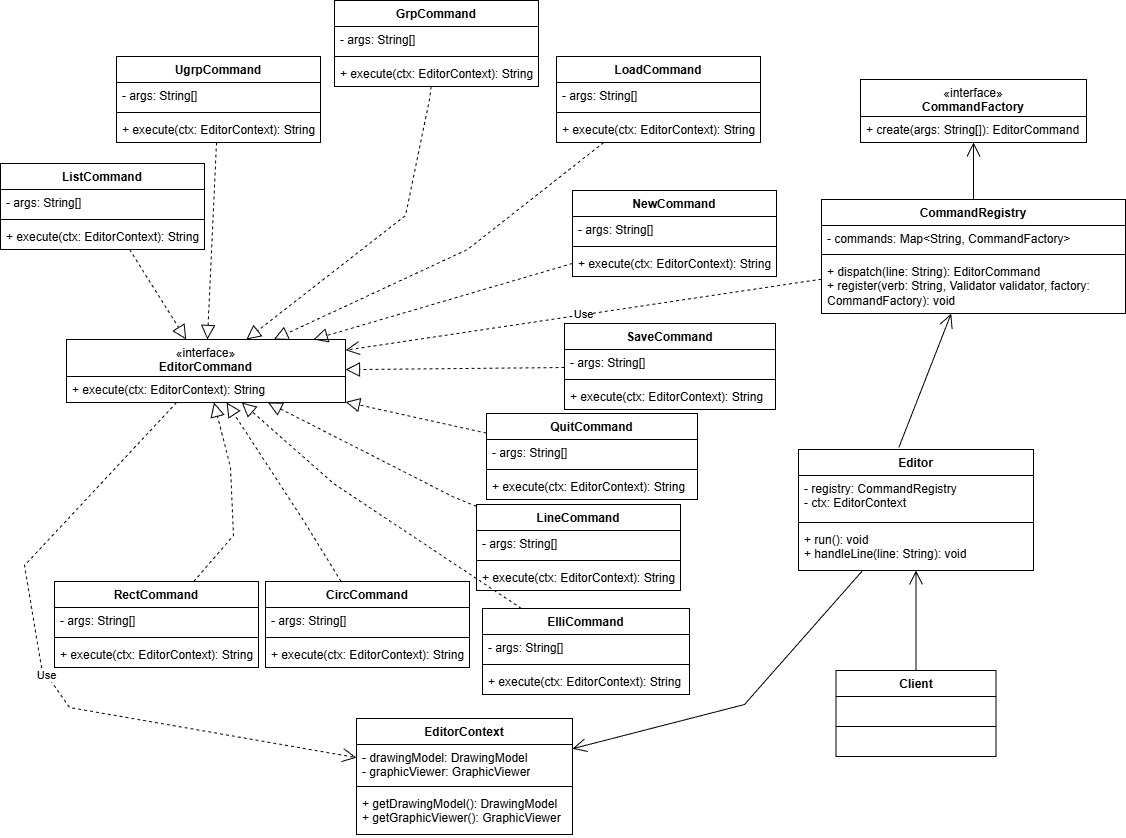
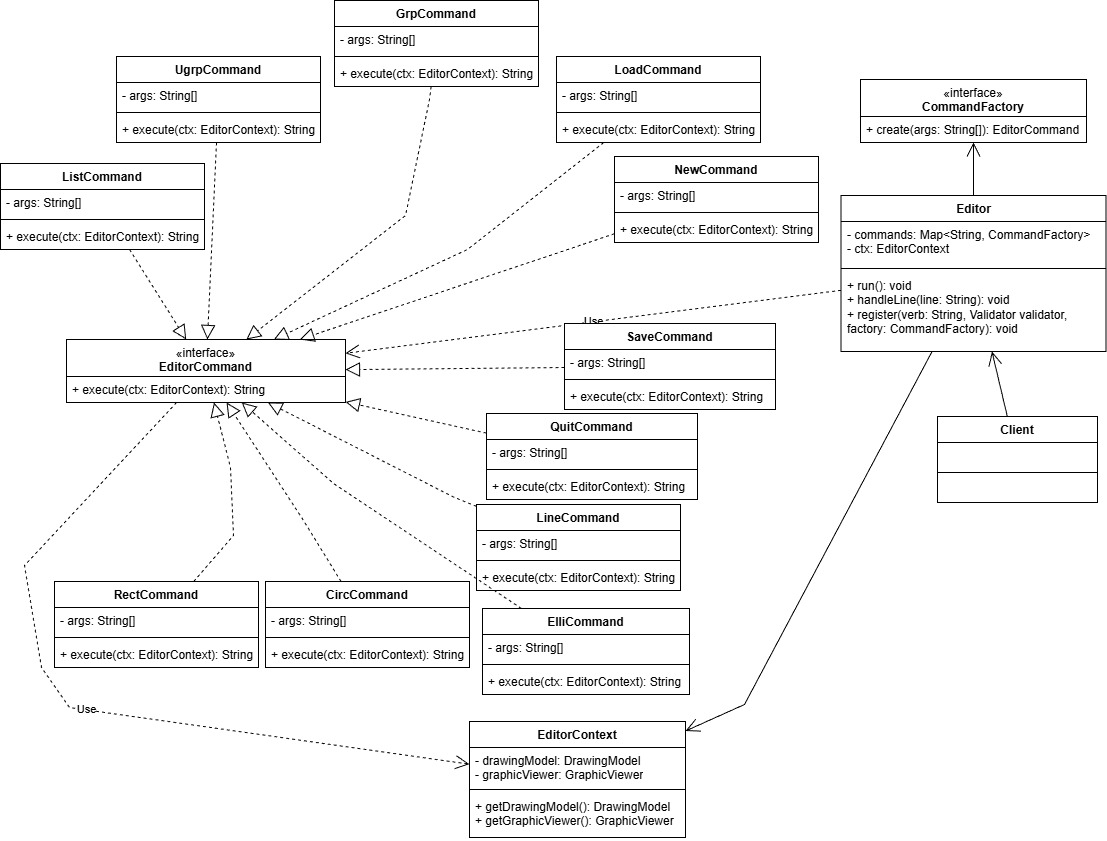
update

diff --git a/src/main/java/com/drawing/controller/converter/V2bmpConverter.java b/src/main/java/com/drawing/controller/converter/V2bmpConverter.java
@@ -52,23 +52,23 @@ public class V2bmpConverter implements DrawingVisitor {
         ImageIO.write(image, "png", new File(pngFile));
     }
 
-    private static int i(double v) {
-        return (int) Math.round(v);
-    }
-
     @Override
     public void visit(Line line) {
         g.setColor(line.getColor());
-        g.drawLine(i(line.getX0()), i(line.getY0()), i(line.getX1()), i(line.getY1()));
+        g.drawLine((int) Math.round(line.getX0()),
+                (int) Math.round(line.getY0()),
+                (int) Math.round(line.getX1()),
+                (int) Math.round(line.getY1())
+        );
     }
 
     @Override
     public void visit(Rectangle rectangle) {
         g.setColor(rectangle.getColor());
-        int x0 = i(Math.min(rectangle.getX0(), rectangle.getX1()));
-        int y0 = i(Math.min(rectangle.getY0(), rectangle.getY1()));
-        int w = i(Math.abs(rectangle.getWidth()));
-        int h = i(Math.abs(rectangle.getHeight()));
+        int x0 = (int) Math.round(Math.min(rectangle.getX0(), rectangle.getX1()));
+        int y0 = (int) Math.round(Math.min(rectangle.getY0(), rectangle.getY1()));
+        int w = (int) Math.round(Math.abs(rectangle.getWidth()));
+        int h = (int) Math.round(Math.abs(rectangle.getHeight()));
         g.drawRect(x0, y0, w, h);
     }
 
@@ -76,19 +76,19 @@ public class V2bmpConverter implements DrawingVisitor {
     public void visit(Circle circle) {
         g.setColor(circle.getColor());
         double r = circle.getRad();
-        int x = i(circle.getCx() - r);
-        int y = i(circle.getCy() - r);
-        int d = i(2 * r);
+        int x = (int) Math.round(circle.getCx() - r);
+        int y = (int) Math.round(circle.getCy() - r);
+        int d = (int) Math.round(2 * r);
         g.drawOval(x, y, d, d);
     }
 
     @Override
     public void visit(Ellipse ellipse) {
         g.setColor(ellipse.getColor());
-        int x = i(ellipse.getX() - ellipse.getRx());
-        int y = i(ellipse.getY() - ellipse.getRy());
-        int w = i(2 * ellipse.getRx());
-        int h = i(2 * ellipse.getRy());
+        int x = (int) Math.round(ellipse.getX() - ellipse.getRx());
+        int y = (int) Math.round(ellipse.getY() - ellipse.getRy());
+        int w = (int) Math.round(2 * ellipse.getRx());
+        int h = (int) Math.round(2 * ellipse.getRy());
         g.drawOval(x, y, w, h);
     }
 

diff --git a/src/main/java/com/drawing/model/builder/NormalDrawingBuilder.java b/src/main/java/com/drawing/model/builder/NormalDrawingBuilder.java
@@ -4,9 +4,7 @@ import com.drawing.model.shape.Drawable;
 import com.drawing.model.shape.*;
 
 import java.awt.Color;
-import java.util.ArrayDeque;
 import java.util.ArrayList;
-import java.util.Deque;
 import java.util.List;
 
 /**
@@ -20,25 +18,16 @@ public class NormalDrawingBuilder implements DrawingBuilder {
     /**
      * Liste des éléments dessinables construits. Les éléments sont ajoutés à la liste ou au groupe en cours.
      */
-    private final List<Drawable> drawables = new ArrayList<>();
-    /**
-     * Pile pour gérer les groupes imbriqués. Chaque fois que beginGroup() est appelé, un nouveau groupe est poussé sur la pile.
-     */
-    private final Deque<Group> groupStack = new ArrayDeque<>();
+    private List<Drawable> drawables = new ArrayList<>();
 
     /** {@inheritDoc} */
     @Override
     public void reset() {
         drawables.clear();
-        groupStack.clear();
     }
 
     private void addDrawable(Drawable d) {
-        if (groupStack.isEmpty()) {
-            drawables.add(d);
-        } else {
-            groupStack.peek().add(d);
-        }
+        drawables.add(d);
     }
 
     /** {@inheritDoc} */
@@ -67,26 +56,13 @@ public class NormalDrawingBuilder implements DrawingBuilder {
 
     /** {@inheritDoc} */
     @Override
-    public void beginGroup(String label) {
-        groupStack.push(new Group(label));
-    }
-
-    /** {@inheritDoc} */
-    @Override
-    public void endGroup() {
-        if (groupStack.isEmpty()) {
-            throw new IllegalStateException("endGroup() appelé sans beginGroup()");
-        }
-        Group finished = groupStack.pop();
-        addDrawable(finished);
+    public void setGroup(List<Drawable> drawables, String label) {
+        addDrawable(new Group(drawables, label));
     }
 
     /** {@inheritDoc} */
     @Override
     public List<Drawable> getResult() {
-        if (!groupStack.isEmpty()) {
-            throw new IllegalStateException("Groupes non fermés: endGroup() manquant");
-        }
         return new ArrayList<>(drawables);
     }
 

diff --git a/src/main/java/com/drawing/controller/xml/XmlLoader.java b/src/main/java/com/drawing/controller/xml/XmlLoader.java
@@ -1,6 +1,7 @@
 package com.drawing.controller.xml;
 
 import com.drawing.model.builder.DrawingBuilder;
+import com.drawing.model.shape.Group;
 import com.drawing.util.ColorDecode;
 
 import org.w3c.dom.Document;
@@ -18,7 +19,15 @@ import java.io.File;
  */
 public class XmlLoader {
 
+    /**
+     * Builder utilisé pour construire le dessin à partir des éléments du fichier XML.
+     */
     private DrawingBuilder drawingBuilder;
+    /**
+     * Groupe en cours de construction. Les éléments suivants seront ajoutés à ce groupe jusqu'à ce qu'un nouveau groupe soit défini.
+     Si null, les éléments sont ajoutés à la liste principale.
+     */
+    private Group currentGroup = null;
 
     /**
      * @param drawingBuilder Builder cible.
@@ -34,6 +43,7 @@ public class XmlLoader {
      * @throws Exception erreur d'accès fichier, parse XML ou attributs invalides
      */
     public void load(String fileName) throws Exception {
+        currentGroup = null;
         Document doc = DocumentBuilderFactory.newInstance()
                 .newDocumentBuilder()
                 .parse(new File(fileName));
@@ -83,9 +93,18 @@ public class XmlLoader {
 
     private void parseGroup(Element groupEl) {
         String label = groupEl.getAttribute("label");
-        drawingBuilder.beginGroup(label);
+        Group newGroup = new Group(label);
+
+        Group previousGroup = currentGroup;
+        currentGroup = newGroup;
         parseChildren(groupEl);
-        drawingBuilder.endGroup();
+        currentGroup = previousGroup;
+
+        if (previousGroup != null) {
+            previousGroup.add(newGroup);
+        } else {
+            drawingBuilder.setGroup(newGroup.getDrawables(), label);
+        }
     }
 
 }

diff --git a/src/main/java/com/drawing/model/builder/DrawingBuilder.java b/src/main/java/com/drawing/model/builder/DrawingBuilder.java
@@ -59,15 +59,10 @@ public interface DrawingBuilder {
     void setEllipse(double x, double y, double rx, double ry, Color c);
 
     /**
-     * Commence un groupe de formes avec une étiquette.
-     * @param label nom du groupe
+     * Définit un groupe de formes avec une étiquette.
+     * @param label étiquette du groupe
      */
-    void beginGroup(String label);
-
-    /**
-     * Termine le groupe de formes en cours.
-     */
-    void endGroup();
+    void setGroup(List<Drawable> drawables, String label);
 
     /**
      * @return Retourne la liste des formes dessinables construites par le builder.

diff --git a/src/main/java/com/drawing/controller/Editor.java b/src/main/java/com/drawing/controller/Editor.java
@@ -58,7 +58,7 @@ public class Editor {
         String[] argsCmd = new String[args.length - 1];
         System.arraycopy(args, 1, argsCmd, 0, args.length - 1);
         CommandFactory commandFactory = commands.get(args[0]);
-        return (commandFactory != null) ? commandFactory.create(argsCmd).execute(ctx) : commands.get("help").create(argsCmd).execute(ctx);
+        return (commandFactory != null) ? commandFactory.create(argsCmd).execute(ctx) : "Cette commande n'existe pas.";
     }
 
     /**

diff --git a/src/main/java/com/drawing/controller/commandset/SystemCommandSet.java b/src/main/java/com/drawing/controller/commandset/SystemCommandSet.java
@@ -1,6 +1,5 @@
 package com.drawing.controller.commandset;
 
-import com.drawing.controller.command.HelpCommand;
 import com.drawing.controller.command.ListCommand;
 import com.drawing.controller.command.NewCommand;
 import com.drawing.controller.command.QuitCommand;
@@ -21,7 +20,6 @@ public class SystemCommandSet implements CommandSet {
             editor.register("new",  new ArityValidator(0), NewCommand::new);
             editor.register("list", new ArityValidator(0), ListCommand::new);
             editor.register("quit", new ArityValidator(0), QuitCommand::new);
-            editor.register("help", new ArityValidator(0), HelpCommand::new);
         }
 
 }

diff --git a/README.md b/README.md
@@ -7,7 +7,7 @@ Petit éditeur de dessin vectoriel en Java : interface graphique (Swing) et comm
 - Java 17
 - Maven
 
-## Lancer l’application
+## Lancer l’application Edit
 
 À la racine du dépôt :
 
@@ -15,27 +15,16 @@ Petit éditeur de dessin vectoriel en Java : interface graphique (Swing) et comm
 mvn -Pedit exec:java
 ```
 
-## Lancer les autres programmes
-
-### Fusion de deux dessins (`merge`)
+## Lancer l’application Fusion (`merge A.vec B.vec fusion.vec`)
 
 ```bash
 mvn -Pmerge exec:java
 ```
 
-### Conversion en image PNG (`v2bmp`)
+### Lancer l’application de Conversion en image PNG (`v2bmp in.vec out.png`)
 
 ```bash
 mvn -Pv2bmp exec:java
-```
-
-Les fichiers d'entrée/sortie sont ensuite fournis via l'interpréteur de commandes dans le terminal de l'application
-(par ex. `merge A.vec B.vec fusion.vec` ou `v2bmp in.vec out.png`).
-
-## Construire le projet
-
-```bash
-mvn package
 ```
 
 ## Générer la Javadoc